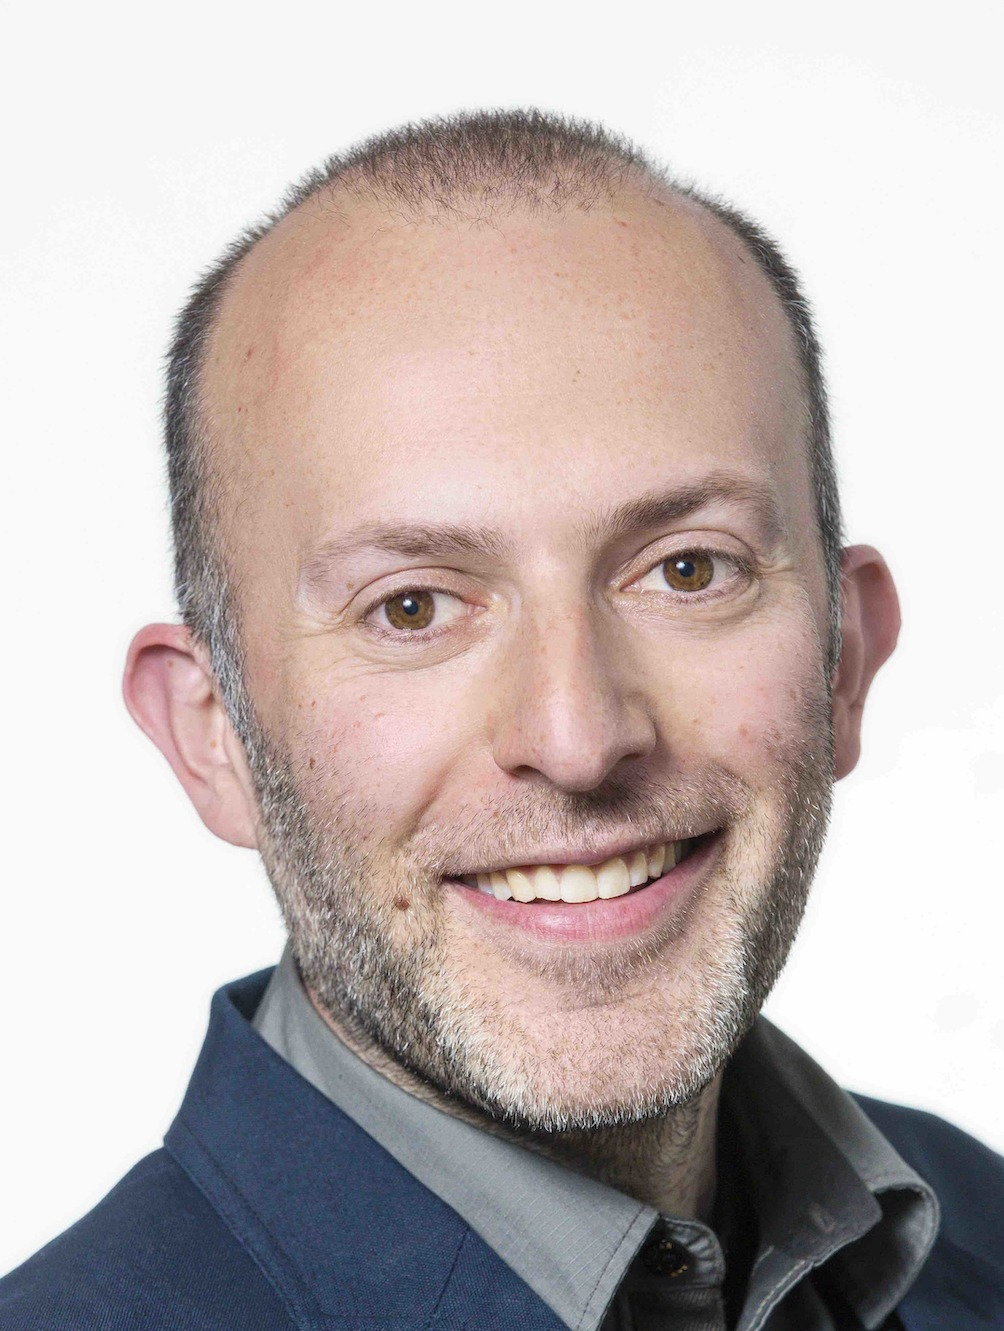
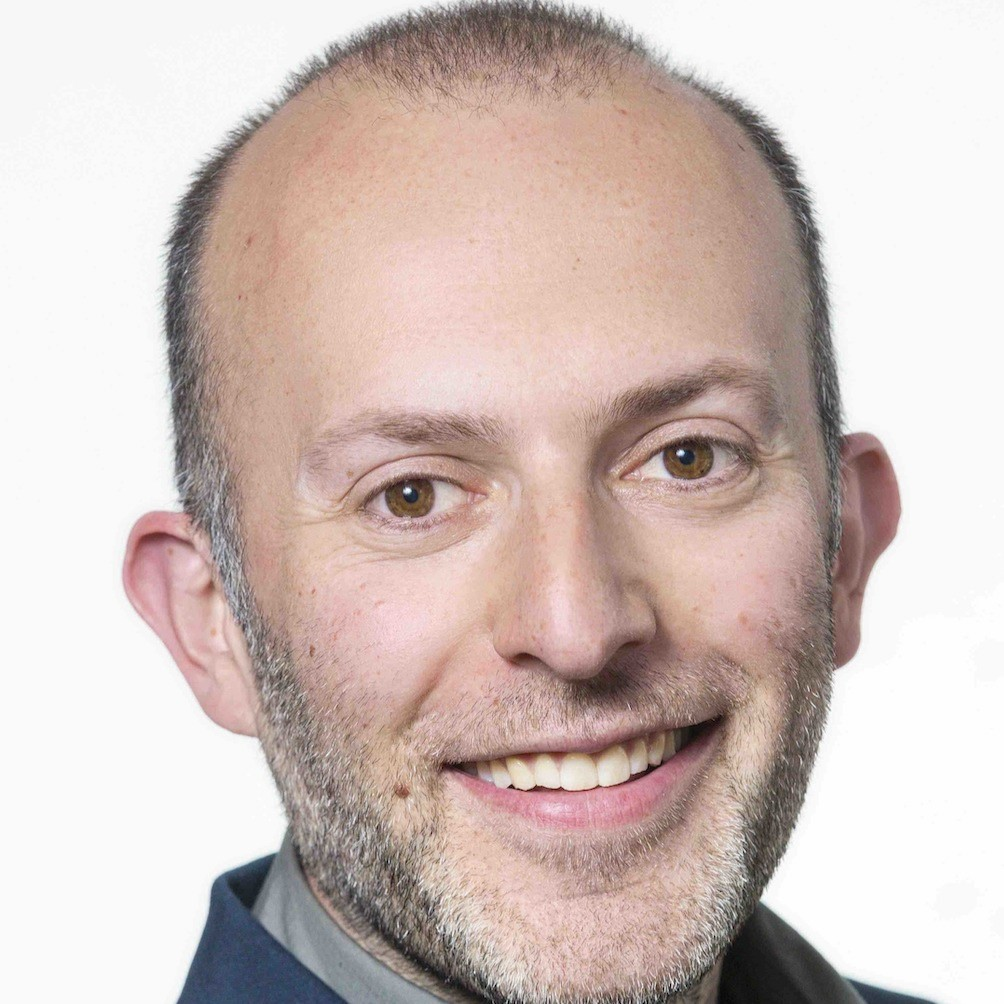
added 2nd keynote speaker and PC

diff --git a/index.html b/index.html
@@ -115,16 +115,16 @@
         <div class="modal-dialog modal-lg" role="document">
         <div class="modal-content">
             <div class="modal-header">
-            <h5 class="modal-title" id="secondKeynoteTitle">Title 2</h5>
+            <h5 class="modal-title" id="secondKeynoteTitle">Title TBA</h5>
             <button type="button" class="close" data-dismiss="modal" aria-label="Close">
                 <span aria-hidden="true">&times;</span>
             </button>
             </div>
             <div class="modal-body">
             <h4>Abstract</h4>
-            <p class="text-justify">Insert abstract here.</p>
+            <p class="text-justify">TBA.</p>
             <h4>Biography</h4>
-            <p class="text-justify">Insert biography here.</p>
+            <p class="text-justify">Sonia Haiduc is an Associate Professor in the Department of Computer Science at Florida State University, USA. Her research interests are in software maintenance and evolution, program comprehension, mining software repositories, and informal software documentation. She is a recipient of the IEEE TCSE Rising Star Award, the NSF Career Award, and two Most Influential Paper Awards among other research accolades. She has also received teaching and service awards and has served the software engineering community in many organizational and reviewing roles, including as Area Chair for ICSE 2022, PC chair for MSR 2019 and ICPC 2022, and General Chair for ICSME 2023.</p>
             </div>
         </div>
         </div>
@@ -171,21 +171,22 @@
                                 </p>
                             </a>
                         </div>
-                        <!--
+                        
                         <div class="col-lg-4 text-center mx-auto d-block">
-                            <a href="link" target="_blank">
-                                <img class="img-fluid rounded-circle mb-3 col-lg-9" src="img/p-placeholder.png">
+                            <a href="https://www.cs.fsu.edu/~shaiduc" target="_blank">
+                                <img class="img-fluid rounded-circle mb-3 col-lg-9" src="img/sonia.jpg">
                             </a>
-                            <a href="link" target="_blank">
-                                <h5>Surname Name 2</h5>
-                                <p class="font-weight-light mb-0">University Name</p>
+                            <a href="https://www.cs.fsu.edu/~shaiduc" target="_blank">
+                                <h5>Sonia Haiduc</h5>
+                                <p class="font-weight-light mb-0">Florida State<br>University</p>
                             </a>
                             <a data-toggle="modal" href="#secondKeynote">
                                 <p class="font-weight-light mt-3 mb-0 text-danger">
-                                    <u>Title</u>
+                                    <u>Keynote to be announced</u>
                                 </p>
                             </a>
                         </div>
+                        <!--
                         <div class="col-lg-4 text-center mx-auto d-block">
                             <a href="link" target="_blank">
                                 <img class="img-fluid rounded-circle mb-3 col-lg-9" src="img/p-placeholder.png">
@@ -291,7 +292,7 @@
                                 </p>
                             </a>
                         </div>
-                        <div class="col-lg-4 text-center mx-auto d-block">
+                        <div class="col-lg-4 text-center mx-auto d-block" style="margin-top: 20px;">
                             <a href="https://informatique.umons.ac.be/perso/Mens.Tom" target="_blank">
                                 <img class="img-fluid rounded-circle mb-3 col-lg-6" src="img/tom.jpeg" alt="Tom Mens Picture">
                             </a>
@@ -304,17 +305,32 @@
                         </div>
                     </div>
                     <br />
-                    <!-- <br />
+                    <br />
                     <h4 class="section-heading">Program Committee</h4>
                     <div class="row">
                         <div class="col-lg-12 col-md-12 text-left">
                             <div class="mt-5">
                                 <ul>
-                                    <li><a href="link">Surname Name</a>, University Name, Country</li>
+                                    <li><a href="https://www.gemmacatolino.com">Gemma Catolino</a>, University of Salerno, Italy</li>
+                                    <li><a href="https://www.tue.nl/en/research/researchers/michel-chaudron">Michel Chaudron</a>, Eindhoven University of Technology, Netherlands</li>
+                                    <li><a href="https://luiscruz.github.io">Luis Cruz</a>, Delft University of Technology, Netherlands</li>
+                                    <li><a href="http://soft.vub.ac.be/~cderoove">Coen	De Roover</a>, Vrije Universiteit Brussel, Belgium</li>
+                                    <li><a href="http://ansymo.uantwerpen.be">Serge Demeyer</a>, Universiteit Antwerpen (ANSYMO), Belgium</li>
+                                    <li><a href="https://www.cristal.univ-lille.fr/~etien">Anne	Etien</a>, University of Lille (CRIStAL), France</li>
+                                    <li><a href="http://www.labri.fr/~falleri">Jean-Rémy Falleri</a>, Bordeaux INP, France</li>
+                                    <li><a href="https://sfortz.github.io">Sophie Fortz</a>, King's College London, United Kingdom</li>
+                                    <li><a href="https://fermadeiral.github.io">Fernanda Madeiral</a>, Vrije Universiteit Amsterdam, Netherlands</li>
+                                    <li><a href="http://staff.umons.ac.be/tom.mens">Tom Mens</a>, University of Mons, Belgium</li>
+                                    <li><a href="https://jnsll.github.io">June Sallou</a>, Delft University of Technology, Netherlands</li>
+                                    <li><a href="http://www.win.tue.nl/~aserebre">Alexander Serebrenik</a>, Eindhoven University of Technology, Netherlands</li>
+                                    <li><a href="www.lirmm.fr/~seriai">Abdelhak Seriai</a>, University of Montpellier (Lirmm), France</li>
+                                    <li><a href="https://templep.github.io">Paul Temple</a>, University of Rennes, France</li>
+                                    <li><a href="https://mairieli.com">Mairieli Wessel</a>, Radboud University, Netherlands</li>
+                                    <li><a href="http://upsilon.cc/~zack">Stefano Zacchiroli</a>, Polytechnic Institute of Paris (Télécom Paris), France</li>
                                 </ul>
                             </div>
                         </div>
-                    </div> -->
+                    </div>
                 </div>
             </div>
     </section>
